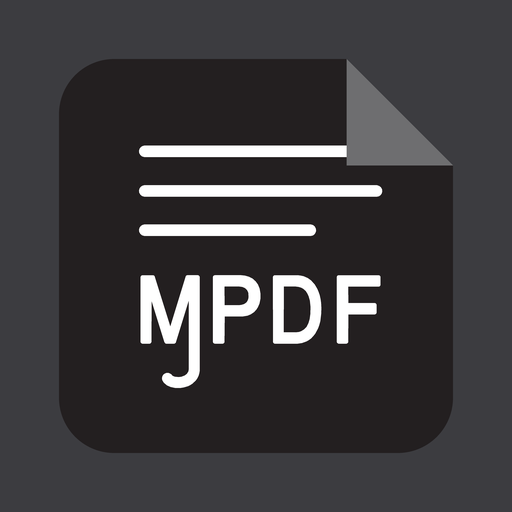
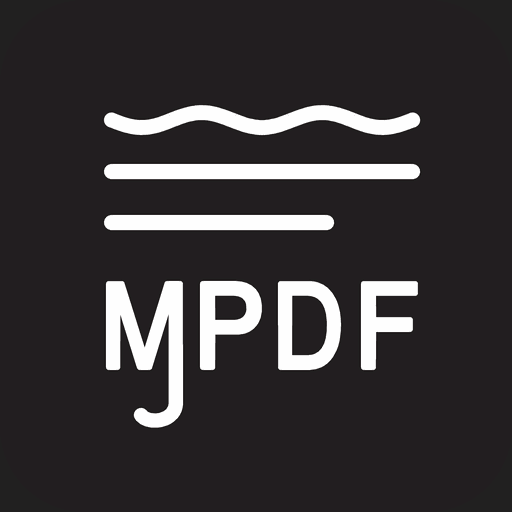
Search Results - Fixed inconsistent app bar and status bar colors when selecting multiple books. The status bar no longer becomes lighter while selection mode is active.
Home
- Fixed the Home app bar becoming darker while scrolling, which caused it to differ from the tab bar color.

Home Search
- Added support for deleting books directly from Home search results.
- Fixed search results not refreshing after a file was deleted. Deleted files are now removed from the results immediately.

Resolved the recurring page-jump and slider issues in text mode:
- Removed the re-anchoring loop from the scroll listener.
- Changed the pending jump target into a settle flag. It is now cleared when:
  - The target page reaches the top of the viewport.
  - The list reaches the end of the document and the target page is visible.
  - The user touches the screen.
- Stopped active flings before executing page jumps, preventing fling momentum from moving the viewport away from the target page.
- Increased unloaded and loading placeholders to approximately two-thirds of the viewport height and centered the loading spinner.
- Changed the page extraction order so the target page is loaded first, followed by the pages after it and then the pages before it.
- Removed an unnecessary rebind when a page changes from “not loaded” to “loading,” since both states use the same rendering.

- Chnage icon

diff --git a/app/src/main/java/com/gitlab/mudlej/MjPdfReader/ui/home/HomeActivity.kt b/app/src/main/java/com/gitlab/mudlej/MjPdfReader/ui/home/HomeActivity.kt
@@ -14,7 +14,6 @@ import androidx.core.widget.doOnTextChanged
 import androidx.lifecycle.lifecycleScope
 import androidx.preference.PreferenceManager
 import androidx.recyclerview.widget.LinearLayoutManager
-import androidx.recyclerview.widget.RecyclerView
 import androidx.swiperefreshlayout.widget.SwipeRefreshLayout
 import androidx.viewpager2.widget.ViewPager2
 import com.gitlab.mudlej.MjPdfReader.R
@@ -68,8 +67,6 @@ class HomeActivity : AppCompatActivity(), HomeItemFunctions {
     private lateinit var foldersTab: FoldersTabController
 
     private var allItems: List<HomeItem> = emptyList()
-
-    private val tabRecyclerViews = mutableMapOf<HomeTab, RecyclerView>()
 
     private val foldersBackCallback = object : OnBackPressedCallback(false) {
         override fun handleOnBackPressed() {
@@ -264,14 +261,12 @@ class HomeActivity : AppCompatActivity(), HomeItemFunctions {
 
     private fun setupPager() {
         binding.homePager.adapter = HomeTabsAdapter { tab, recyclerView, swipeRefresh ->
-            tabRecyclerViews[tab] = recyclerView
             when (tab) {
                 HomeTab.RECENT -> recentTab.attach(recyclerView)
                 HomeTab.LIBRARY -> libraryTab.attach(recyclerView)
                 HomeTab.FOLDERS -> foldersTab.attach(recyclerView)
             }
             setupPullToRefresh(swipeRefresh)
-            if (tab == currentTab()) pinLiftTarget()
         }
         binding.homePager.offscreenPageLimit = HomeTab.entries.size - 1
 
@@ -291,13 +286,8 @@ class HomeActivity : AppCompatActivity(), HomeItemFunctions {
                 pref.setHomeTab(HomeTab.entries[position])
                 selectionController.finish()
                 updateFoldersBackState()
-                pinLiftTarget()
             }
         })
-    }
-
-    private fun pinLiftTarget() {
-        tabRecyclerViews[currentTab()]?.let(binding.appBarLayout::setLiftOnScrollTargetView)
     }
 
     private fun updateFoldersBackState() {
@@ -367,12 +357,16 @@ class HomeActivity : AppCompatActivity(), HomeItemFunctions {
             }
         }
 
-        binding.searchView.editText.doOnTextChanged { text, _, _, _ ->
-            val query = text?.toString().orEmpty()
-            searchResultsAdapter.submitList(
-                libraryController.searchAll(allItems, libraryScanner.libraryEntries(), query)
-            )
+        binding.searchView.editText.doOnTextChanged { _, _, _, _ ->
+            submitSearchResults()
         }
+    }
+
+    private fun submitSearchResults() {
+        val query = binding.searchView.editText.text?.toString().orEmpty()
+        searchResultsAdapter.submitList(
+            libraryController.searchAll(allItems, libraryScanner.libraryEntries(), query)
+        )
     }
 
     private fun shouldShowScanSetup(): Boolean {
@@ -400,6 +394,9 @@ class HomeActivity : AppCompatActivity(), HomeItemFunctions {
         recentTab.render(allItems)
         libraryTab.render(allItems)
         foldersTab.render(allItems, scanIndex.entries, scanIndex.scanning)
+        if (binding.searchView.isShowing) {
+            submitSearchResults()
+        }
     }
 
     private fun setupPullToRefresh(swipeRefresh: SwipeRefreshLayout) {

diff --git a/app/src/main/java/com/gitlab/mudlej/MjPdfReader/ui/text_mode/TextModePageViewHolder.kt b/app/src/main/java/com/gitlab/mudlej/MjPdfReader/ui/text_mode/TextModePageViewHolder.kt
@@ -20,6 +20,7 @@ import com.gitlab.mudlej.MjPdfReader.core.io.plainTextShareIntent
 class TextModePageViewHolder(
     private val binding: TextModePageItemBinding,
     private val onRetry: (Int) -> Unit,
+    private val viewportHeight: () -> Int,
 ) : RecyclerView.ViewHolder(binding.root) {
 
     fun bind(state: TextModePageState, settings: TextModeSettings) {
@@ -28,6 +29,7 @@ class TextModePageViewHolder(
         val horizontalPadding = dp(settings.horizontalMargin)
 
         binding.root.setBackgroundColor(colors.background)
+        applyPlaceholderHeight(state)
         binding.pageContainer.setPadding(horizontalPadding, dp(18), horizontalPadding, dp(18))
         applyReadableLineLength(settings)
         binding.pageLabel.text = context.getString(R.string.text_mode_page_label, state.pageIndex + 1)
@@ -115,6 +117,19 @@ class TextModePageViewHolder(
         }
     }
 
+    private fun applyPlaceholderHeight(state: TextModePageState) {
+        val isPlaceholder = state is TextModePageState.NotLoaded || state is TextModePageState.Loading
+        val minHeight = if (isPlaceholder) {
+            val height = (viewportHeight() * PLACEHOLDER_VIEWPORT_FRACTION).toInt()
+            if (height > 0) height else dp(PLACEHOLDER_FALLBACK_HEIGHT_DP)
+        } else {
+            0
+        }
+        if (binding.root.minimumHeight != minHeight) {
+            binding.root.minimumHeight = minHeight
+        }
+    }
+
     private fun applyReadableLineLength(settings: TextModeSettings) {
         val params = binding.pageContainer.layoutParams as ConstraintLayout.LayoutParams
         val maxWidth = if (settings.readableLineLength) {
@@ -135,5 +150,7 @@ class TextModePageViewHolder(
     private companion object {
         const val SHARE_SELECTION_ID = 1001
         const val SEARCH_WEB_SELECTION_ID = 1002
+        const val PLACEHOLDER_VIEWPORT_FRACTION = 0.65f
+        const val PLACEHOLDER_FALLBACK_HEIGHT_DP = 420
     }
 }

diff --git a/app/src/main/java/com/gitlab/mudlej/MjPdfReader/ui/text_mode/TextModeActivity.kt b/app/src/main/java/com/gitlab/mudlej/MjPdfReader/ui/text_mode/TextModeActivity.kt
@@ -359,6 +359,7 @@ class TextModeActivity : AppCompatActivity() {
 
         currentPageIndex = pageIndex.coerceIn(0, pageCount - 1)
         pendingScrollTarget = currentPageIndex
+        binding.textPagesRecyclerView.stopScroll()
         layoutManager.scrollToPositionWithOffset(currentPageIndex, 0)
         contentLoader.loadTargetWindow(currentPageIndex)
         binding.textPagesRecyclerView.doOnNextLayout { contentLoader.loadVisiblePages() }
@@ -381,10 +382,12 @@ class TextModeActivity : AppCompatActivity() {
 
         val pending = pendingScrollTarget
         if (pending != RecyclerView.NO_POSITION) {
-            if (firstVisiblePage == pending) {
+            val lastVisiblePage = layoutManager.findLastVisibleItemPosition()
+            val pendingAtTop = firstVisiblePage == pending
+            val pendingClampedAtEnd = pending in firstVisiblePage..lastVisiblePage &&
+                !binding.textPagesRecyclerView.canScrollVertically(1)
+            if (pendingAtTop || pendingClampedAtEnd) {
                 pendingScrollTarget = RecyclerView.NO_POSITION
-            } else {
-                layoutManager.scrollToPositionWithOffset(pending, 0)
             }
             return
         }

diff --git a/app/src/main/java/com/gitlab/mudlej/MjPdfReader/ui/text_mode/TextModePageAdapter.kt b/app/src/main/java/com/gitlab/mudlej/MjPdfReader/ui/text_mode/TextModePageAdapter.kt
@@ -13,6 +13,15 @@ class TextModePageAdapter(
 
     private val pages = mutableListOf<TextModePageState>()
     private var settings = TextModeSettings()
+    private var recyclerView: RecyclerView? = null
+
+    override fun onAttachedToRecyclerView(recyclerView: RecyclerView) {
+        this.recyclerView = recyclerView
+    }
+
+    override fun onDetachedFromRecyclerView(recyclerView: RecyclerView) {
+        this.recyclerView = null
+    }
 
     fun submitPageCount(pageCount: Int) {
         pages.clear()
@@ -27,7 +36,10 @@ class TextModePageAdapter(
     fun updatePageState(state: TextModePageState) {
         if (state.pageIndex !in pages.indices) return
 
+        val previous = pages[state.pageIndex]
         pages[state.pageIndex] = state
+        if (previous is TextModePageState.NotLoaded && state is TextModePageState.Loading) return
+
         notifyItemChanged(state.pageIndex)
     }
 
@@ -40,6 +52,7 @@ class TextModePageAdapter(
         return TextModePageViewHolder(
             TextModePageItemBinding.inflate(LayoutInflater.from(parent.context), parent, false),
             onRetry,
+            { recyclerView?.height ?: 0 },
         )
     }
 

diff --git a/app/src/main/java/com/gitlab/mudlej/MjPdfReader/ui/home/HomeSelectionController.kt b/app/src/main/java/com/gitlab/mudlej/MjPdfReader/ui/home/HomeSelectionController.kt
@@ -118,7 +118,8 @@ class HomeSelectionController(
     private fun applyContextVisibility(menu: Menu) {
         menu.findItem(R.id.removeRecentBatchOption).isVisible = context == SelectionContext.RECENT
         menu.findItem(R.id.hideBatchOption).isVisible = context == SelectionContext.LIBRARY
-        menu.findItem(R.id.deleteBatchOption).isVisible = context == SelectionContext.FOLDERS
+        menu.findItem(R.id.deleteBatchOption).isVisible =
+            context == SelectionContext.FOLDERS || context == SelectionContext.SEARCH
     }
 
     private fun updateTitle() {

diff --git a/app/src/main/java/com/gitlab/mudlej/MjPdfReader/ui/text_mode/TextModeContentLoader.kt b/app/src/main/java/com/gitlab/mudlej/MjPdfReader/ui/text_mode/TextModeContentLoader.kt
@@ -108,7 +108,11 @@ class TextModeContentLoader(
     fun loadTargetWindow(pageIndex: Int) {
         val window = (pageIndex - PREFETCH_DISTANCE)..(pageIndex + JUMP_LOAD_AHEAD)
         cancelLoadsOutside(window)
-        for (index in window) {
+        loadPage(pageIndex)
+        for (index in pageIndex + 1..window.last) {
+            loadPage(index)
+        }
+        for (index in pageIndex - 1 downTo window.first) {
             loadPage(index)
         }
     }
